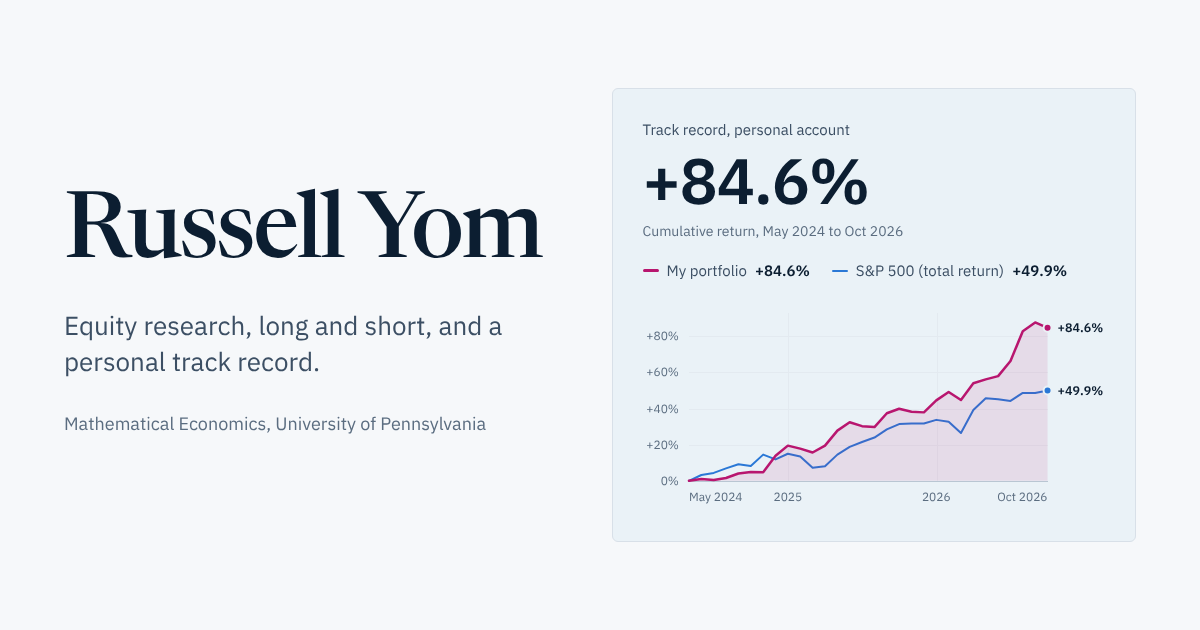
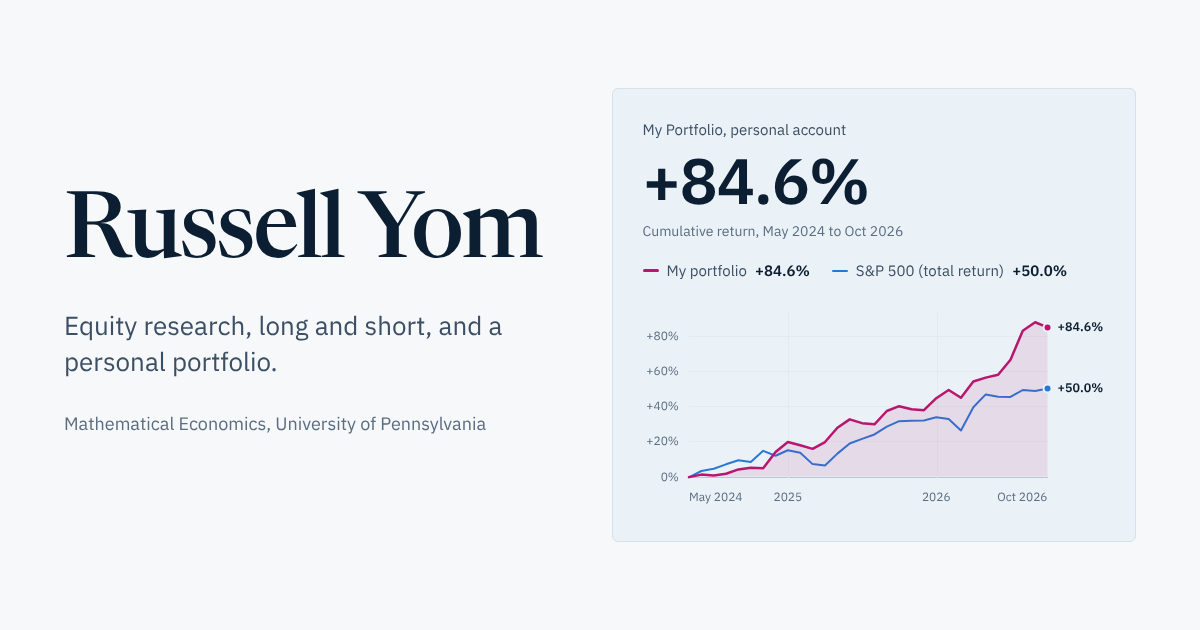
Rename Track record to My Portfolio; add Sortino and holding period
Renames the menu tab, page title and home panel to My Portfolio (the
URL stays /track-record/), adds the Sortino ratio (5.97) and average
holding duration (2.5 to 3 months), and replaces the traced chart data
with the exact monthly figures from the PortfolioAnalyst report.

Claude-Session: https://claude.ai/code/session_012NfHhBHDYReE3PTEBxhBZt

diff --git a/track-record/index.html b/track-record/index.html
@@ -5,14 +5,14 @@
 <meta name="viewport" content="width=device-width, initial-scale=1">
 <meta name="robots" content="noindex, nofollow">
 <meta name="googlebot" content="noindex, nofollow">
-<title>Track record | Russell Yom</title>
+<title>My Portfolio | Russell Yom</title>
 <meta name="description" content="Russell Yom's personal portfolio: +84.6% cumulative return from May 2024 to Oct 2026, time-weighted.">
 <meta name="author" content="Russell Yom">
 <meta name="theme-color" content="#f6f8fa" media="(prefers-color-scheme: light)">
 <meta name="theme-color" content="#0b1726" media="(prefers-color-scheme: dark)">
 <meta property="og:type" content="website">
 <meta property="og:site_name" content="Russell Yom">
-<meta property="og:title" content="Track record | Russell Yom">
+<meta property="og:title" content="My Portfolio | Russell Yom">
 <meta property="og:description" content="Russell Yom's personal portfolio: +84.6% cumulative return from May 2024 to Oct 2026, time-weighted.">
 <meta property="og:url" content="https://russayz.github.io/track-record/">
 <meta property="og:image" content="https://russayz.github.io/assets/img/og.png">
@@ -31,18 +31,18 @@
 <header class="site-header">
   <div class="wrap">
     <a class="brand" href="/" aria-label="Russell Yom, home"><img class="brand-mark" src="/assets/img/logo.svg" alt="" width="28" height="38"><span class="brand-name">Russell's Finance Microsite</span></a>
-    <nav class="site-nav" aria-label="Main"><ul><li><a href="/research/">Research</a></li><li><a href="/track-record/" aria-current="page">Track record</a></li><li><a href="/about/">About Me</a></li></ul></nav>
+    <nav class="site-nav" aria-label="Main"><ul><li><a href="/research/">Research</a></li><li><a href="/track-record/" aria-current="page">My Portfolio</a></li><li><a href="/about/">About Me</a></li></ul></nav>
   </div>
 </header>
 <main id="main">
 <div class="wrap">
   <header class="page-head">
-    <h1>Track record</h1>
-    <p class="lede">My personal brokerage account, from May 2024 to October 2026: +84.6%, about 35 percentage points ahead of the S&amp;P 500 total return over the same period, with a maximum drawdown of 3.2%. Returns are time-weighted, so deposits and withdrawals do not move them. I do not publish account values.</p>
+    <h1>My Portfolio</h1>
+    <p class="lede">My personal brokerage account, from May 2024 to October 2026: +84.6%, 34.7 percentage points ahead of the S&amp;P 500 total return over the same period, with a maximum drawdown of 3.2%. Returns are time-weighted, so deposits and withdrawals do not move them. I do not publish account values.</p>
   </header>
 
   <!-- ===== STATS: update each month (copy figures from your broker report) ===== -->
-  <dl class="stats"><div><dt>Cumulative return<span>May 2024 to Oct 2026</span></dt><dd>+84.64%</dd></div><div><dt>Last three months<span>Aug to Oct 2026</span></dt><dd>+11.03%</dd></div><div><dt>Last month<span>Oct 2026</span></dt><dd>−1.58%</dd></div><div><dt>Best month<span>Aug 2026</span></dt><dd>+9.93%</dd></div><div><dt>Worst month<span>Mar 2026</span></dt><dd>−2.97%</dd></div><div><dt>Maximum drawdown<span>Jan to Mar 2025</span></dt><dd>−3.21%</dd></div><div><dt>Sharpe ratio<span>Since inception</span></dt><dd>1.87</dd></div><div><dt>Standard deviation<span>Since inception</span></dt><dd>3.28%</dd></div></dl>
+  <dl class="stats"><div><dt>Cumulative return<span>May 2024 to Oct 2026</span></dt><dd>+84.64%</dd></div><div><dt>Last three months<span>Aug to Oct 2026</span></dt><dd>+11.03%</dd></div><div><dt>Last month<span>Oct 2026</span></dt><dd>−1.58%</dd></div><div><dt>Best month<span>Aug 2026</span></dt><dd>+9.93%</dd></div><div><dt>Worst month<span>Mar 2026</span></dt><dd>−2.97%</dd></div><div><dt>Maximum drawdown<span>Jan to Mar 2025</span></dt><dd>−3.21%</dd></div><div><dt>Sharpe ratio<span>Since inception</span></dt><dd>1.87</dd></div><div><dt>Sortino ratio<span>Since inception</span></dt><dd>5.97</dd></div><div><dt>Standard deviation<span>Monthly, since inception</span></dt><dd>3.28%</dd></div><div><dt>Average holding duration<span>Per position</span></dt><dd>2.5–3 <small>months</small></dd></div></dl>
 
   <section class="pitch-section" aria-labelledby="chart-h" style="border-top: 0">
     <div class="chart-card">
@@ -104,8 +104,8 @@
   <section class="pitch-section" aria-labelledby="notes-h">
     <h2 id="notes-h" style="font-size: 22px">Notes on the numbers</h2>
     <div class="notes" style="margin-top: 12px">
-      <p>Source: my brokerage’s performance report for May 2024 to October 2026. Cumulative return, the last one and three months, best and worst months, maximum drawdown, Sharpe ratio, standard deviation and contributions are copied exactly from the report.</p>
-      <p>The month-by-month path in the chart, and every benchmark figure, are read from the report’s chart and reconciled to the reported numbers. Treat them as close approximations.</p>
+      <p>Source: my brokerage’s performance report for 27 May 2024 to 29 October 2026. Every return, ratio and contribution on this page, including the monthly figures in the chart and the benchmarks, is copied from that report. Returns are time-weighted.</p>
+      <p>Average holding duration is my own estimate across positions.</p>
       <p>Benchmarks: the S&amp;P 500 total return index, Vanguard Total World Stock ETF (VT) and iShares MSCI EAFE ETF (EFA). Past returns do not predict future returns.</p>
     </div>
   </section>

diff --git a/index.html b/index.html
@@ -6,14 +6,14 @@
 <meta name="robots" content="noindex, nofollow">
 <meta name="googlebot" content="noindex, nofollow">
 <title>Russell Yom</title>
-<meta name="description" content="Equity research and a personal track record from Russell Yom, Mathematical Economics at the University of Pennsylvania.">
+<meta name="description" content="Equity research and a personal portfolio from Russell Yom, Mathematical Economics at the University of Pennsylvania.">
 <meta name="author" content="Russell Yom">
 <meta name="theme-color" content="#f6f8fa" media="(prefers-color-scheme: light)">
 <meta name="theme-color" content="#0b1726" media="(prefers-color-scheme: dark)">
 <meta property="og:type" content="website">
 <meta property="og:site_name" content="Russell Yom">
 <meta property="og:title" content="Russell Yom">
-<meta property="og:description" content="Equity research and a personal track record from Russell Yom, Mathematical Economics at the University of Pennsylvania.">
+<meta property="og:description" content="Equity research and a personal portfolio from Russell Yom, Mathematical Economics at the University of Pennsylvania.">
 <meta property="og:url" content="https://russayz.github.io/">
 <meta property="og:image" content="https://russayz.github.io/assets/img/og.png">
 <meta property="og:image:width" content="1200">
@@ -31,7 +31,7 @@
 <header class="site-header">
   <div class="wrap">
     <a class="brand" href="/" aria-label="Russell Yom, home"><img class="brand-mark" src="/assets/img/logo.svg" alt="" width="28" height="38"><span class="brand-name">Russell's Finance Microsite</span></a>
-    <nav class="site-nav" aria-label="Main"><ul><li><a href="/research/">Research</a></li><li><a href="/track-record/">Track record</a></li><li><a href="/about/">About Me</a></li></ul></nav>
+    <nav class="site-nav" aria-label="Main"><ul><li><a href="/research/">Research</a></li><li><a href="/track-record/">My Portfolio</a></li><li><a href="/about/">About Me</a></li></ul></nav>
   </div>
 </header>
 <main id="main">
@@ -52,17 +52,17 @@
         <li><span>Recognition</span><span>1st place, AIBC x Citadel Stock Pitch Competition</span></li>
       </ul>
     </div>
-    <!-- ===== TRACK RECORD PANEL: update these numbers each month, plus assets/js/performance-data.js ===== -->
+    <!-- ===== MY PORTFOLIO PANEL: update these numbers each month, plus assets/js/performance-data.js ===== -->
     <aside class="record-panel" aria-labelledby="record-h">
       <div class="record-top">
         <div>
-          <h2 id="record-h" class="record-label">Track record, personal account</h2>
+          <h2 id="record-h" class="record-label">My Portfolio, personal account</h2>
           <p class="record-figure">+84.6%</p>
           <p class="record-sub">Cumulative return, May 2024 to Oct 2026</p>
         </div>
         <ul class="record-compare" aria-label="Legend, same period">
           <li><i class="key key-portfolio"></i>My portfolio <b>+84.6%</b></li>
-          <li><i class="key key-spx"></i>S&amp;P 500 (total return) <b>+49.9%</b></li>
+          <li><i class="key key-spx"></i>S&amp;P 500 (total return) <b>+50.0%</b></li>
         </ul>
       </div>
       <div class="chart" id="home-chart" data-chart data-series="portfolio,spx" data-variant="mini" data-animate></div>
@@ -72,8 +72,8 @@
         <div><dt>Best month</dt><dd>+9.93%</dd></div>
         <div><dt>Worst month</dt><dd>−2.97%</dd></div>
       </dl>
-      <noscript><p class="small">The chart needs JavaScript. My portfolio returned +84.6% from May 2024 to Oct 2026, against about +49.9% for the S&amp;P 500 total return index.</p></noscript>
-      <div class="record-foot"><span>Time-weighted returns. Account values are not shown.</span><a href="/track-record/">Full track record</a></div>
+      <noscript><p class="small">The chart needs JavaScript. My portfolio returned +84.6% from May 2024 to Oct 2026, against +50.0% for the S&amp;P 500 total return index.</p></noscript>
+      <div class="record-foot"><span>Time-weighted returns. Account values are not shown.</span><a href="/track-record/">See my portfolio</a></div>
     </aside>
   </div>
 </section>

diff --git a/assets/js/performance-data.js b/assets/js/performance-data.js
@@ -1,17 +1,15 @@
 /*
-  Track record data. Percentages only: no account values are stored or shown.
+  My Portfolio data. Percentages only: no account values are stored or shown.
 
-  Source: brokerage performance report, May 2024 to Oct 2026.
-  - "reported" figures are copied exactly from the report.
-  - "series" values are cumulative returns in percent at each month end,
-    read from the report's chart, then reconciled to the reported figures.
-    Benchmark paths are approximate.
+  Source: brokerage performance report (PortfolioAnalyst), 27 May 2024 to 29 Oct 2026.
+  Every figure is copied from the report. "series" values are the report's cumulative
+  time-weighted returns in percent at each month end (Benchmark Performance Comparisons table).
 
   To update: add one month to "months" and one value to each series,
   then refresh "reported" and "asOf".
 */
 window.TRACK_RECORD = {
-  asOf: "31 Oct 2026",
+  asOf: "29 Oct 2026",
   inception: "May 2024",
   months: [
     "2024-05","2024-06","2024-07","2024-08","2024-09","2024-10","2024-11","2024-12",
@@ -24,25 +22,25 @@ window.TRACK_RECORD = {
       id: "portfolio",
       name: "My portfolio",
       short: "Portfolio",
-      values: [0.0,1.05,0.39,1.55,4.03,4.86,4.7,13.81,19.45,17.79,15.62,19.45,27.73,32.38,30.22,29.72,37.35,39.83,38.18,37.85,44.48,49.12,44.69,53.92,56.08,57.9,66.3,82.81,87.6,84.64]
+      values: [-0.41,1.03,0.57,1.53,3.98,4.94,4.62,13.86,19.51,17.71,15.67,19.52,27.66,32.39,30.27,29.56,37.17,39.9,38.18,37.63,44.45,49.1,44.66,53.94,56.11,57.73,66.3,82.81,87.59,84.64]
     },
     {
       id: "spx",
       name: "S&P 500 (total return)",
       short: "S&P 500",
-      values: [0.0,3.2,4.36,6.85,9.17,8.18,14.48,11.82,14.97,13.48,7.18,8.0,14.48,18.78,21.44,23.92,28.4,31.38,31.71,31.71,33.7,32.71,26.41,39.17,45.64,45.14,44.23,48.62,48.62,49.94]
+      values: [-0.49,3.08,4.33,6.86,9.15,8.16,14.51,11.78,14.89,13.39,7,6.27,12.96,18.71,21.37,23.83,28.35,31.36,31.68,31.76,33.67,32.66,26.05,39.28,46.61,45.21,45.12,49.07,48.55,49.98]
     },
     {
       id: "vt",
       name: "World equities (VT)",
       short: "VT",
-      values: [0.0,1.05,2.87,5.52,7.85,5.86,9.83,6.52,9.83,9.5,5.52,6.02,12.15,17.46,18.78,22.43,26.41,29.06,29.39,30.72,34.7,36.69,28.56,40.5,46.8,46.13,45.14,49.45,47.29,47.62]
+      values: [-0.49,1.09,3.09,5.5,7.81,5.46,9.83,6.6,9.86,9.4,5.56,6.15,12.31,17.56,18.85,22.37,26.49,29.05,29.33,30.51,34.57,36.78,28.28,40.23,46.65,46.08,45.07,49.43,47.3,47.41]
     },
     {
       id: "efa",
       name: "Developed ex-US (EFA)",
       short: "EFA",
-      values: [0.0,-1.6,1.55,4.2,5.19,-0.44,-0.77,-3.76,0.88,3.7,4.03,7.85,13.31,15.8,13.31,18.45,20.94,22.27,23.26,26.74,32.71,38.84,28.73,35.03,38.01,39.17,41.33,43.98,39.17,39.83]
+      values: [0.16,-1.65,0.9,4.19,5,-0.53,-0.85,-3.77,0.85,3.83,4.02,7.86,13.03,15.73,13.31,18.44,20.88,22.34,23.24,26.59,32.8,38.92,28.04,34.88,38.15,39.09,41.37,43.87,39.11,39.72]
     }
   ],
   reported: {
@@ -53,6 +51,7 @@ window.TRACK_RECORD = {
     worstMonth: { value: -2.97, period: "Mar 2026" },
     maxDrawdown: { value: -3.21, period: "Jan to Mar 2025" },
     sharpe: { value: 1.87 },
+    sortino: { value: 5.97 },
     stdDev: { value: 3.28 }
   },
   contributors: {

diff --git a/assets/css/site.css b/assets/css/site.css
@@ -372,15 +372,16 @@ tbody tr:last-child td { border-bottom: 0; }
 .pitch-next a { font-weight: 500; }
 
 /* ---------- track record page ---------- */
-.stats { display: grid; grid-template-columns: repeat(4, minmax(0, 1fr)); margin: 0; border-top: 1px solid var(--ink); }
-.stats div { padding: 18px 20px 20px 0; border-bottom: 1px solid var(--rule); display: flex; flex-direction: column-reverse; justify-content: flex-end; gap: 4px; }
-.stats div:not(:nth-child(4n+1)) { padding-left: 20px; border-left: 1px solid var(--rule); }
+.stats { display: grid; grid-template-columns: repeat(5, minmax(0, 1fr)); margin: 0; border-top: 1px solid var(--ink); }
+.stats div { padding: 18px 18px 20px 0; border-bottom: 1px solid var(--rule); display: flex; flex-direction: column-reverse; justify-content: flex-end; gap: 4px; }
+.stats div:not(:nth-child(5n+1)) { padding-left: 18px; border-left: 1px solid var(--rule); }
 .stats dt { font-size: 14px; color: var(--ink-2); }
 .stats dt span { display: block; font-size: 13px; color: var(--ink-3); }
-.stats dd { margin: 0; font-size: clamp(26px, 3vw, 34px); font-weight: 600; letter-spacing: -0.015em; line-height: 1.1; }
-@media (max-width: 860px) {
+.stats dd { margin: 0; font-size: clamp(24px, 2.5vw, 32px); font-weight: 600; letter-spacing: -0.015em; line-height: 1.1; white-space: nowrap; }
+.stats dd small { font-size: 0.5em; font-weight: 500; color: var(--ink-3); letter-spacing: 0; }
+@media (max-width: 1000px) {
   .stats { grid-template-columns: repeat(2, minmax(0, 1fr)); }
-  .stats div:not(:nth-child(4n+1)) { padding-left: 0; border-left: 0; }
+  .stats div:not(:nth-child(5n+1)) { padding-left: 0; border-left: 0; }
   .stats div:nth-child(2n) { padding-left: 20px; border-left: 1px solid var(--rule); }
 }
 

diff --git a/404.html b/404.html
@@ -29,12 +29,12 @@
 <header class="site-header">
   <div class="wrap">
     <a class="brand" href="/" aria-label="Russell Yom, home"><img class="brand-mark" src="/assets/img/logo.svg" alt="" width="28" height="38"><span class="brand-name">Russell's Finance Microsite</span></a>
-    <nav class="site-nav" aria-label="Main"><ul><li><a href="/research/">Research</a></li><li><a href="/track-record/">Track record</a></li><li><a href="/about/">About Me</a></li></ul></nav>
+    <nav class="site-nav" aria-label="Main"><ul><li><a href="/research/">Research</a></li><li><a href="/track-record/">My Portfolio</a></li><li><a href="/about/">About Me</a></li></ul></nav>
   </div>
 </header>
 <main id="main">
 <div class="wrap"><header class="page-head"><h1>Page not found</h1>
-<p class="lede">That address does not exist on this site. Try the <a href="/">home page</a>, the <a href="/research/">research</a> or the <a href="/track-record/">track record</a>.</p></header></div>
+<p class="lede">That address does not exist on this site. Try the <a href="/">home page</a>, the <a href="/research/">research</a> or my <a href="/track-record/">portfolio</a>.</p></header></div>
 </main>
 <footer class="site-footer">
   <div class="wrap footer-grid">

diff --git a/about/index.html b/about/index.html
@@ -29,7 +29,7 @@
 <header class="site-header">
   <div class="wrap">
     <a class="brand" href="/" aria-label="Russell Yom, home"><img class="brand-mark" src="/assets/img/logo.svg" alt="" width="28" height="38"><span class="brand-name">Russell's Finance Microsite</span></a>
-    <nav class="site-nav" aria-label="Main"><ul><li><a href="/research/">Research</a></li><li><a href="/track-record/">Track record</a></li><li><a href="/about/" aria-current="page">About Me</a></li></ul></nav>
+    <nav class="site-nav" aria-label="Main"><ul><li><a href="/research/">Research</a></li><li><a href="/track-record/">My Portfolio</a></li><li><a href="/about/" aria-current="page">About Me</a></li></ul></nav>
   </div>
 </header>
 <main id="main">

diff --git a/research/boot-barn/index.html b/research/boot-barn/index.html
@@ -29,7 +29,7 @@
 <header class="site-header">
   <div class="wrap">
     <a class="brand" href="/" aria-label="Russell Yom, home"><img class="brand-mark" src="/assets/img/logo.svg" alt="" width="28" height="38"><span class="brand-name">Russell's Finance Microsite</span></a>
-    <nav class="site-nav" aria-label="Main"><ul><li><a href="/research/" aria-current="page">Research</a></li><li><a href="/track-record/">Track record</a></li><li><a href="/about/">About Me</a></li></ul></nav>
+    <nav class="site-nav" aria-label="Main"><ul><li><a href="/research/" aria-current="page">Research</a></li><li><a href="/track-record/">My Portfolio</a></li><li><a href="/about/">About Me</a></li></ul></nav>
   </div>
 </header>
 <main id="main">

diff --git a/research/disco/index.html b/research/disco/index.html
@@ -29,7 +29,7 @@
 <header class="site-header">
   <div class="wrap">
     <a class="brand" href="/" aria-label="Russell Yom, home"><img class="brand-mark" src="/assets/img/logo.svg" alt="" width="28" height="38"><span class="brand-name">Russell's Finance Microsite</span></a>
-    <nav class="site-nav" aria-label="Main"><ul><li><a href="/research/" aria-current="page">Research</a></li><li><a href="/track-record/">Track record</a></li><li><a href="/about/">About Me</a></li></ul></nav>
+    <nav class="site-nav" aria-label="Main"><ul><li><a href="/research/" aria-current="page">Research</a></li><li><a href="/track-record/">My Portfolio</a></li><li><a href="/about/">About Me</a></li></ul></nav>
   </div>
 </header>
 <main id="main">

diff --git a/research/ftai-aviation/index.html b/research/ftai-aviation/index.html
@@ -29,7 +29,7 @@
 <header class="site-header">
   <div class="wrap">
     <a class="brand" href="/" aria-label="Russell Yom, home"><img class="brand-mark" src="/assets/img/logo.svg" alt="" width="28" height="38"><span class="brand-name">Russell's Finance Microsite</span></a>
-    <nav class="site-nav" aria-label="Main"><ul><li><a href="/research/" aria-current="page">Research</a></li><li><a href="/track-record/">Track record</a></li><li><a href="/about/">About Me</a></li></ul></nav>
+    <nav class="site-nav" aria-label="Main"><ul><li><a href="/research/" aria-current="page">Research</a></li><li><a href="/track-record/">My Portfolio</a></li><li><a href="/about/">About Me</a></li></ul></nav>
   </div>
 </header>
 <main id="main">

diff --git a/research/index.html b/research/index.html
@@ -29,7 +29,7 @@
 <header class="site-header">
   <div class="wrap">
     <a class="brand" href="/" aria-label="Russell Yom, home"><img class="brand-mark" src="/assets/img/logo.svg" alt="" width="28" height="38"><span class="brand-name">Russell's Finance Microsite</span></a>
-    <nav class="site-nav" aria-label="Main"><ul><li><a href="/research/" aria-current="page">Research</a></li><li><a href="/track-record/">Track record</a></li><li><a href="/about/">About Me</a></li></ul></nav>
+    <nav class="site-nav" aria-label="Main"><ul><li><a href="/research/" aria-current="page">Research</a></li><li><a href="/track-record/">My Portfolio</a></li><li><a href="/about/">About Me</a></li></ul></nav>
   </div>
 </header>
 <main id="main">

diff --git a/EDITING.md b/EDITING.md
@@ -31,19 +31,19 @@ Open the folder on github.com (for example `files`), click **Add file > Upload f
 
 | What you see on the site | File to edit |
 |---|---|
-| Home page: name, intro, buttons, quick facts, track record panel, research cards, short bio | `index.html` |
+| Home page: name, intro, buttons, quick facts, My Portfolio panel, research cards, short bio | `index.html` |
 | Research list and the "At a glance" table | `research/index.html` |
 | FTAI pitch page | `research/ftai-aviation/index.html` |
 | Boot Barn pitch page | `research/boot-barn/index.html` |
 | DISCO pitch page | `research/disco/index.html` |
-| Track record page: stats, contributors, notes | `track-record/index.html` |
+| My Portfolio page: stats, contributors, notes (the web address stays /track-record/) | `track-record/index.html` |
 | Chart numbers (portfolio and benchmarks) | `assets/js/performance-data.js` |
 | About page: experience, education, competitions, contact | `about/index.html` |
 | Pitch decks | `files/` |
 | Slide images and the link-preview image | `assets/img/` |
 | Colors, fonts, spacing | `assets/css/site.css` |
 
-Notes in the files that look like `<!-- ===== TRACK RECORD PANEL ... ===== -->` are signposts for you.
+Notes in the files that look like `<!-- ===== MY PORTFOLIO PANEL ... ===== -->` are signposts for you.
 Visitors never see them.
 
 ---
@@ -65,7 +65,7 @@ Visitors never see them.
 
 ## Common jobs
 
-### 1. Update the track record each month
+### 1. Update My Portfolio each month
 Do all three steps so the numbers agree everywhere.
 
 **a. Chart data: `assets/js/performance-data.js`**
@@ -75,11 +75,11 @@ Do all three steps so the numbers agree everywhere.
   - Example: old 84.64, November +2.0% → 1.8464 × 1.02 − 1 = 0.8833 → **88.33**.
 - Update `asOf` and the `reported` figures.
 
-**b. Home page: `index.html`**, in the TRACK RECORD PANEL block
+**b. Home page: `index.html`**, in the MY PORTFOLIO PANEL block
 - The big number, "May 2024 to Oct 2026", the two legend values, the four risk stats (Sharpe, drawdown, best and worst month), and the sentence inside `<noscript>`.
 
-**c. Track record page: `track-record/index.html`**
-- The opening paragraph (return and lead over the S&P 500), the eight STATS, the chart subtitle ("Month-end values, May 2024 to ..."), the contributors if they changed, and the notes at the bottom.
+**c. My Portfolio page: `track-record/index.html`**
+- The opening paragraph (return and lead over the S&P 500), the ten STATS (including Sortino ratio and average holding duration), the chart subtitle ("Month-end values, May 2024 to ..."), the contributors if they changed, and the notes at the bottom.
 - Contributor bars: each `width: 100.0%` is that holding's contribution divided by the largest contribution on the page, times 100. For example 7.13 ÷ 8.28 × 100 = 86.1%.
 
 Never add account values or dollar balances. The site shows percentages only.

diff --git a/README.md b/README.md
@@ -9,11 +9,11 @@ Live at https://russayz.github.io (pages carry a `noindex` tag, so search engine
 |---|---|
 | `index.html` | Home page |
 | `research/` | Research list and one folder per pitch |
-| `track-record/` | Portfolio performance, percentages only |
+| `track-record/` | My Portfolio page: performance, percentages only |
 | `about/` | Background, experience, competitions, contact |
 | `files/` | Pitch decks (PDF) |
 | `assets/css/site.css` | All styles |
-| `assets/js/performance-data.js` | Track record numbers (edit this to update the chart) |
+| `assets/js/performance-data.js` | My Portfolio numbers (edit this to update the chart) |
 | `assets/js/charts.js` | Chart drawing code |
 | `assets/img/`, `assets/fonts/` | Images and self-hosted fonts (Newsreader, IBM Plex Sans, both under the SIL Open Font License) |
 
